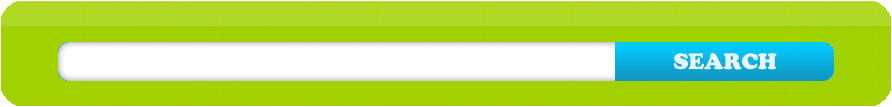
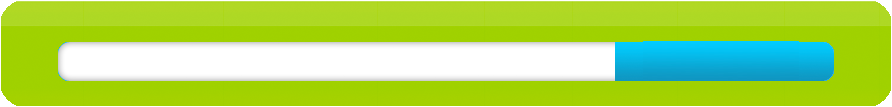
formatage du search engine ##

Changed region(s): [[0.7567, 0.4766, 0.8778, 0.6729], [0.7265, 0.3645, 0.9081, 0.3925]]

diff --git a/alloch/skin/static/style.css b/alloch/skin/static/style.css
@@ -69,8 +69,34 @@ height:107px;
 background-image:url(images/search_engine.png);
 background-repeat:no-repeat;
 margin:auto;
-padding-top:49px;
+padding-top:5px;
 }
+
+#search-engine h3, form{
+margin-left:70px;
+}
+
+#search-engine #address{
+margin-top:15px;
+width:540px;
+height:30px;
+background-color:transparent;
+border:none;
+font-size:1.8em;
+}
+
+#search-engine #search{
+margin-top:10px;
+margin-left:5px;
+width:210px;
+height:40px;
+background-color:transparent;
+border:none;
+font-size:1.8em;
+color:#fff;
+}
+
+
 
 .clear-both{
 clear:both;
